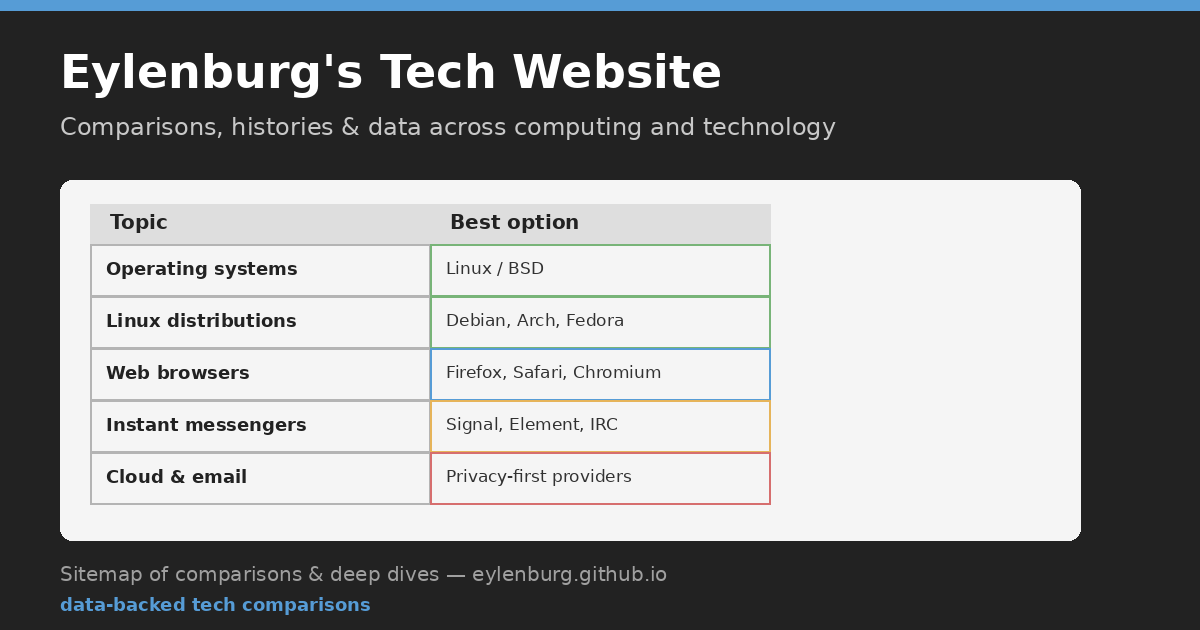
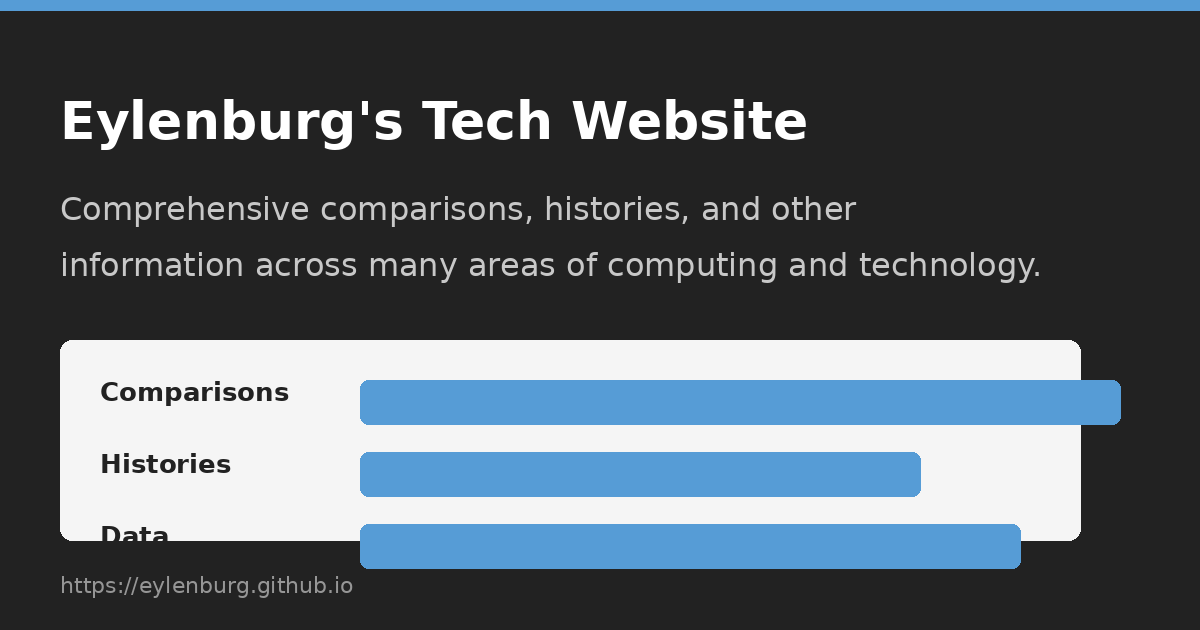
fix(seo): correct per-page og:description + neutral OG image
- og:description/twitter:description now fall back to each page's own
  title (altchans.htm had a stale 'Comparison of Spreadsheet Programs')
- Replace ranked 'Best option' OG card with neutral dark #222 card:
  site name + real tagline only, per maintainer review

diff --git a/browser_engines.htm b/browser_engines.htm
@@ -11,7 +11,7 @@
 <meta property="og:type" content="website">
 <meta property="og:site_name" content="Eylenburg's Tech Website">
 <meta property="og:title" content="History of Web Browser Engines from 1990 until today">
-<meta property="og:description" content="History of Web Browser Engines 1990 until today">
+<meta property="og:description" content="History of Web Browser Engines from 1990 until today">
 <meta property="og:url" content="https://eylenburg.github.io/browser_engines.htm">
 <meta property="og:image" content="https://eylenburg.github.io/og-image.png">
 <meta property="og:image:type" content="image/png">
@@ -19,7 +19,7 @@
 <meta property="og:image:height" content="630">
 <meta name="twitter:card" content="summary_large_image">
 <meta name="twitter:title" content="History of Web Browser Engines from 1990 until today">
-<meta name="twitter:description" content="History of Web Browser Engines 1990 until today">
+<meta name="twitter:description" content="History of Web Browser Engines from 1990 until today">
 <meta name="twitter:image" content="https://eylenburg.github.io/og-image.png">
 
 <link rel="stylesheet" href="style.css">

diff --git a/small_phones.htm b/small_phones.htm
@@ -11,7 +11,7 @@
 <meta property="og:type" content="website">
 <meta property="og:site_name" content="Eylenburg's Tech Website">
 <meta property="og:title" content="The Disappearance of Pocket-Friendly Phones">
-<meta property="og:description" content="Disappearance of newly released pocket-friendly (small) phones">
+<meta property="og:description" content="The Disappearance of Pocket-Friendly Phones">
 <meta property="og:url" content="https://eylenburg.github.io/small_phones.htm">
 <meta property="og:image" content="https://eylenburg.github.io/og-image.png">
 <meta property="og:image:type" content="image/png">
@@ -19,7 +19,7 @@
 <meta property="og:image:height" content="630">
 <meta name="twitter:card" content="summary_large_image">
 <meta name="twitter:title" content="The Disappearance of Pocket-Friendly Phones">
-<meta name="twitter:description" content="Disappearance of newly released pocket-friendly (small) phones">
+<meta name="twitter:description" content="The Disappearance of Pocket-Friendly Phones">
 <meta name="twitter:image" content="https://eylenburg.github.io/og-image.png">
 
 <link rel="stylesheet" href="style.css">

diff --git a/de_comparison.htm b/de_comparison.htm
@@ -11,7 +11,7 @@
 <meta property="og:type" content="website">
 <meta property="og:site_name" content="Eylenburg's Tech Website">
 <meta property="og:title" content="Comparison &amp; List of Desktop Environments">
-<meta property="og:description" content="Comparison of Linux and Unix Desktop Environments">
+<meta property="og:description" content="Comparison &amp; List of Desktop Environments">
 <meta property="og:url" content="https://eylenburg.github.io/de_comparison.htm">
 <meta property="og:image" content="https://eylenburg.github.io/og-image.png">
 <meta property="og:image:type" content="image/png">
@@ -19,7 +19,7 @@
 <meta property="og:image:height" content="630">
 <meta name="twitter:card" content="summary_large_image">
 <meta name="twitter:title" content="Comparison &amp; List of Desktop Environments">
-<meta name="twitter:description" content="Comparison of Linux and Unix Desktop Environments">
+<meta name="twitter:description" content="Comparison &amp; List of Desktop Environments">
 <meta name="twitter:image" content="https://eylenburg.github.io/og-image.png">
 
 <link rel="stylesheet" href="style.css">

diff --git a/cloud_comparison.htm b/cloud_comparison.htm
@@ -11,7 +11,7 @@
 <meta property="og:type" content="website">
 <meta property="og:site_name" content="Eylenburg's Tech Website">
 <meta property="og:title" content="Comparison of Cloud, Sync &amp; Email services">
-<meta property="og:description" content="Comparison of Cloud, Sync and Email services">
+<meta property="og:description" content="Comparison of Cloud, Sync &amp; Email services">
 <meta property="og:url" content="https://eylenburg.github.io/cloud_comparison.htm">
 <meta property="og:image" content="https://eylenburg.github.io/og-image.png">
 <meta property="og:image:type" content="image/png">
@@ -19,7 +19,7 @@
 <meta property="og:image:height" content="630">
 <meta name="twitter:card" content="summary_large_image">
 <meta name="twitter:title" content="Comparison of Cloud, Sync &amp; Email services">
-<meta name="twitter:description" content="Comparison of Cloud, Sync and Email services">
+<meta name="twitter:description" content="Comparison of Cloud, Sync &amp; Email services">
 <meta name="twitter:image" content="https://eylenburg.github.io/og-image.png">
 
 <link rel="stylesheet" href="style.css">

diff --git a/altchans.htm b/altchans.htm
@@ -11,7 +11,7 @@
 <meta property="og:type" content="website">
 <meta property="og:site_name" content="Eylenburg's Tech Website">
 <meta property="og:title" content="Comparison of Altchans (4chan alternatives)">
-<meta property="og:description" content="Comparison of Spreadsheet Programs">
+<meta property="og:description" content="Comparison of Altchans (4chan alternatives)">
 <meta property="og:url" content="https://eylenburg.github.io/altchans.htm">
 <meta property="og:image" content="https://eylenburg.github.io/og-image.png">
 <meta property="og:image:type" content="image/png">
@@ -19,7 +19,7 @@
 <meta property="og:image:height" content="630">
 <meta name="twitter:card" content="summary_large_image">
 <meta name="twitter:title" content="Comparison of Altchans (4chan alternatives)">
-<meta name="twitter:description" content="Comparison of Spreadsheet Programs">
+<meta name="twitter:description" content="Comparison of Altchans (4chan alternatives)">
 <meta name="twitter:image" content="https://eylenburg.github.io/og-image.png">
 
 <link rel="stylesheet" href="style.css">

diff --git a/make-og-image.py b/make-og-image.py
@@ -1,16 +1,15 @@
 #!/usr/bin/env python3
 """Generate 1200x630 OG image for Eylenburg's Tech Website (eylenburg.github.io).
-Pillow-only, portable (reads FONT_DIR override for font paths)."""
+Neutral dark #222 card per maintainer review: site name + real tagline only,
+no ranking/"best option" content. Pillow-only, portable (FONT_DIR override)."""
 import os
 from PIL import Image, ImageDraw, ImageFont
 
 W, H = 1200, 630
-BG = (34, 34, 34)        # site #222 dark
-CARD = (245, 245, 245)   # light card
-ACCENT = (86, 156, 214)  # lightblue-ish tech accent
-GREEN = (120, 180, 120)
-AMBER = (230, 180, 90)
-RED = (214, 110, 110)
+BG = (34, 34, 34)         # site #222 dark
+ACCENT = (86, 156, 214)   # lightblue tech accent
+GREY = (200, 200, 200)
+DIM = (150, 150, 150)
 
 FONT_DIR = os.environ.get("FONT_DIR", "/usr/share/fonts/truetype")
 def f(path, size):
@@ -22,46 +21,28 @@ d = ImageDraw.Draw(img)
 # subtle top accent bar
 d.rectangle([0, 0, W, 10], fill=ACCENT)
 
-# header: site wordmark
-d.text((60, 45), "Eylenburg's Tech Website", font=f("dejavu/DejaVuSans-Bold.ttf", 46), fill=(255, 255, 255))
-d.text((60, 112), "Comparisons, histories & data across computing and technology", font=f("dejavu/DejaVuSans.ttf", 24), fill=(200, 200, 200))
+# site wordmark
+d.text((60, 90), "Eylenburg's Tech Website", font=f("dejavu/DejaVuSans-Bold.ttf", 52), fill=(255, 255, 255))
 
-# comparison-table motif: draw a stylized 2-col x 5-row table card
-tx0, ty0, tx1, ty1 = 60, 180, 1080, 540
-d.rounded_rectangle([tx0, ty0, tx1, ty1], radius=12, fill=CARD)
+# real tagline (wrapped to two lines)
+d.text((60, 190), "Comprehensive comparisons, histories, and other", font=f("dejavu/DejaVuSans.ttf", 32), fill=GREY)
+d.text((60, 246), "information across many areas of computing and technology.", font=f("dejavu/DejaVuSans.ttf", 32), fill=GREY)
 
-def cell(x, y, w, h, color, label, lw=2):
-    d.rectangle([x, y, x + w, y + h], outline=color, width=lw)
-
-col_w = 340
-row_h = 52
-x = tx0 + 30
-y = ty0 + 24
-
-# header row
-d.rectangle([x, y, x + 2 * col_w, y + 40], fill=(222, 222, 222))
-d.text((x + 20, y + 6), "Topic", font=f("dejavu/DejaVuSans-Bold.ttf", 20), fill=(34, 34, 34))
-d.text((x + col_w + 20, y + 6), "Best option", font=f("dejavu/DejaVuSans-Bold.ttf", 20), fill=(34, 34, 34))
-y += 40
-
-rows = [
-    ("Operating systems", GREEN, "Linux / BSD"),
-    ("Linux distributions", GREEN, "Debian, Arch, Fedora"),
-    ("Web browsers", ACCENT, "Firefox, Safari, Chromium"),
-    ("Instant messengers", AMBER, "Signal, Element, IRC"),
-    ("Cloud & email", RED, "Privacy-first providers"),
-]
-for name, color, val in rows:
-    cell(x, y, col_w, row_h, (180, 180, 180), name)
-    cell(x + col_w, y, col_w, row_h, color, val)
-    d.text((x + 16, y + (row_h - 24) // 2), name, font=f("dejavu/DejaVuSans-Bold.ttf", 18), fill=(34, 34, 34))
-    d.text((x + col_w + 16, y + (row_h - 24) // 2), val, font=f("dejavu/DejaVuSans.ttf", 17), fill=(50, 50, 50))
-    y += row_h
+# neutral comparison motif: three simple horizontal bars of differing lengths
+# (data, not rankings) inside a light card
+tx0, ty0, tx1, ty1 = 60, 340, 1080, 540
+d.rounded_rectangle([tx0, ty0, tx1, ty1], radius=12, fill=(245, 245, 245))
+labels = ["Comparisons", "Histories", "Data"]
+widths = [760, 560, 660]
+y = ty0 + 36
+for label, wd in zip(labels, widths):
+    d.text((tx0 + 40, y), label, font=f("dejavu/DejaVuSans-Bold.ttf", 26), fill=(34, 34, 34))
+    d.rounded_rectangle([tx0 + 300, y + 4, tx0 + 300 + wd, y + 48], radius=8, fill=ACCENT)
+    y += 72
 
 # footer
-d.text((60, 562), "Sitemap of comparisons & deep dives — eylenburg.github.io", font=f("dejavu/DejaVuSans.ttf", 20), fill=(160, 160, 160))
-d.text((60, 594), "data-backed tech comparisons", font=f("dejavu/DejaVuSans-Bold.ttf", 18), fill=ACCENT)
+d.text((60, 572), "https://eylenburg.github.io", font=f("dejavu/DejaVuSans.ttf", 22), fill=DIM)
 
-out = "/home/paperclip/scratch/eylenburg.github.io/og-image.png"
+out = "og-image.png"
 img.save(out, "PNG")
 print("wrote", out, img.size)
